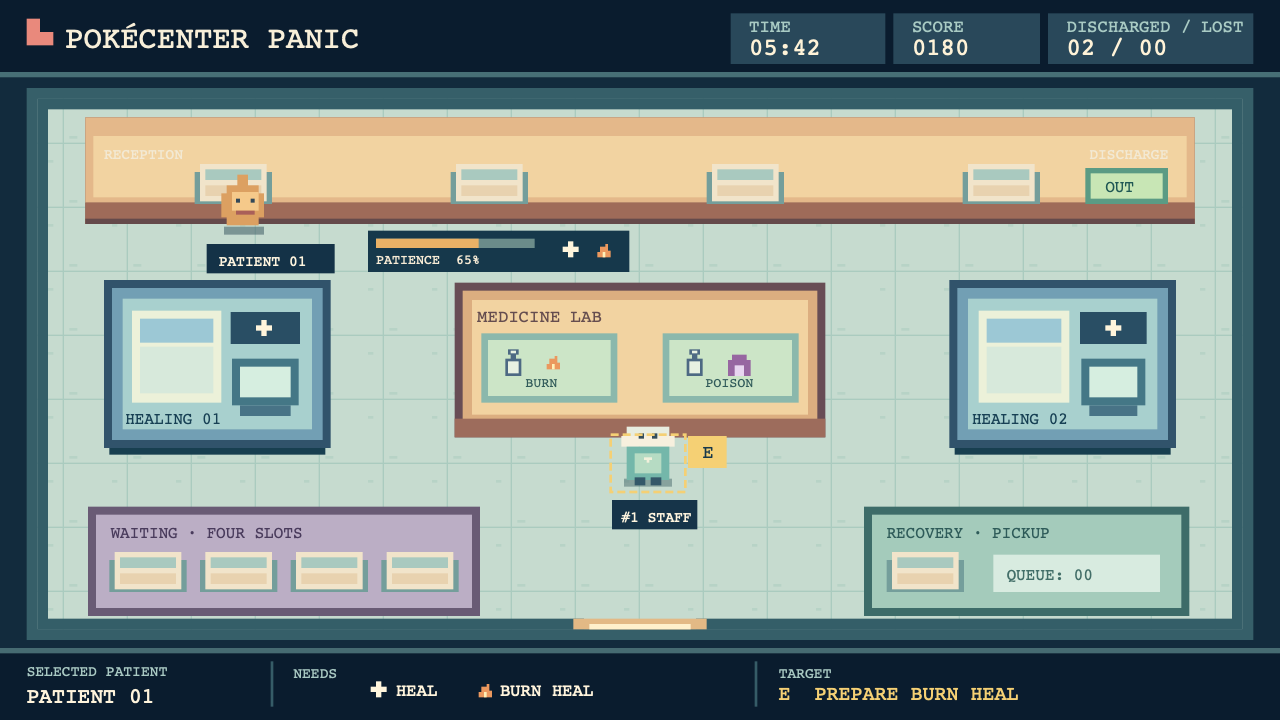
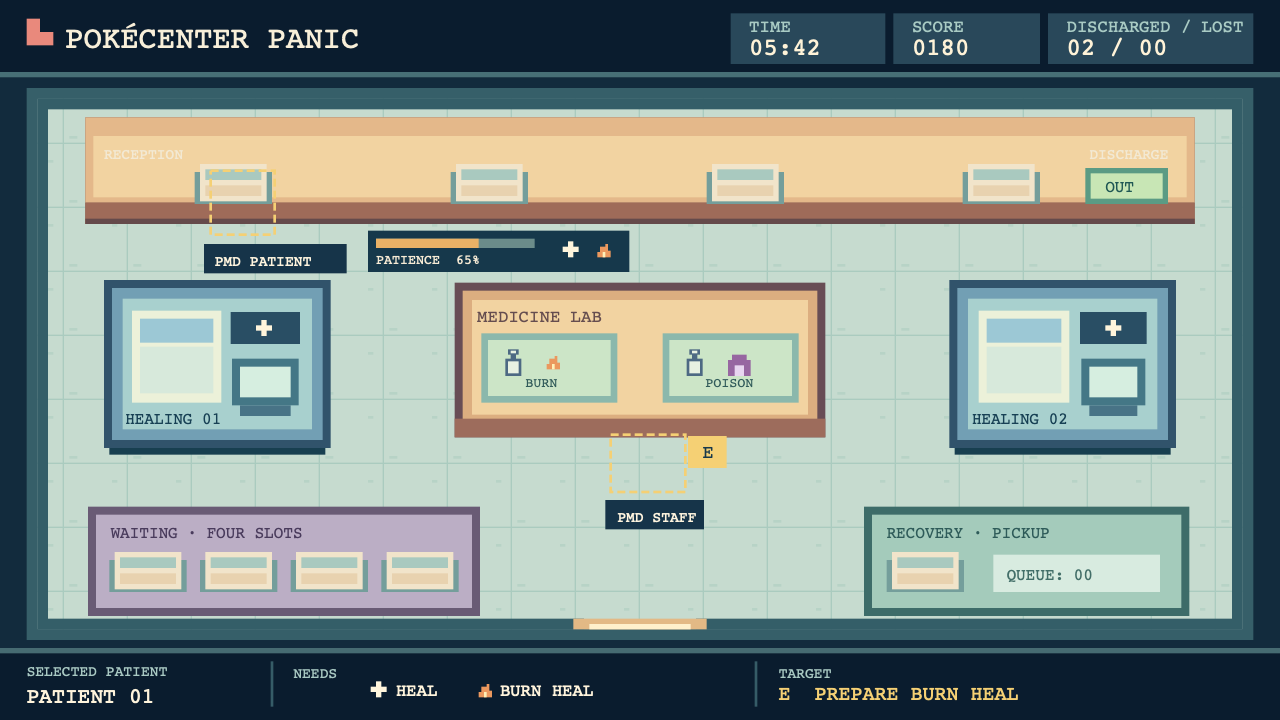
feat(art): render original center map behind PMD sprites

Changed region(s): [[0.1562, 0.2139, 0.2812, 0.3972], [0.4688, 0.5806, 0.5625, 0.7333]]

diff --git a/apps/client/src/scenes/MapScene.test.ts b/apps/client/src/scenes/MapScene.test.ts
@@ -5,7 +5,7 @@ vi.mock('phaser', () => ({ default: { Scene: class {} } }));
 import { MapScene } from './MapScene.js';
 import type { SpriteManifest } from '../sprites/pmd.js';
 
-function setup(manifest?: SpriteManifest) {
+function setup(manifest?: SpriteManifest, mapArt = true) {
   const keyboardListeners = new Map<string, (event: KeyboardEvent) => void>();
   const windowListeners = new Map<string, () => void>();
   const documentListeners = new Map<string, () => void>();
@@ -32,6 +32,7 @@ function setup(manifest?: SpriteManifest) {
   const rectangle = vi.fn(() => ({ setStrokeStyle: vi.fn().mockReturnThis(),
     setVisible: vi.fn().mockReturnThis(), setDepth: vi.fn().mockReturnThis(),
     setPosition: vi.fn().mockReturnThis() }));
+  const image = vi.fn(() => ({ setDepth: vi.fn().mockReturnThis() }));
   const sprite = vi.fn((x: number, y: number, key: string) => ({ x, y, key,
     setOrigin: vi.fn().mockReturnThis(),
     setScale: vi.fn().mockReturnThis(), play: vi.fn().mockReturnThis(),
@@ -45,12 +46,13 @@ function setup(manifest?: SpriteManifest) {
   const scene = new MapScene();
   let onLoadComplete = () => {};
   Object.assign(scene, {
-    add: { graphics: vi.fn(() => graphics), text, rectangle, container, sprite },
+    add: { graphics: vi.fn(() => graphics), image, text, rectangle, container, sprite },
     cache: { json: { get: vi.fn(() => manifest) } },
-    load: { spritesheet: vi.fn(), once: vi.fn((_event: string, callback: () => void) => {
+    load: { image: vi.fn(), json: vi.fn(), spritesheet: vi.fn(),
+      once: vi.fn((_event: string, callback: () => void) => {
       onLoadComplete = callback;
     }), start: vi.fn(() => onLoadComplete()) },
-    textures: { exists: vi.fn(() => true) },
+    textures: { exists: vi.fn((key: string) => key === 'center-map' ? mapArt : true) },
     anims: { create: vi.fn(), exists: vi.fn(() => true) },
     input: { keyboard: {
       on: vi.fn((type: string, listener: (event: KeyboardEvent) => void) => keyboardListeners.set(type, listener)),
@@ -59,8 +61,9 @@ function setup(manifest?: SpriteManifest) {
     events: { once: vi.fn() },
     sys: { isActive: () => true },
   });
+  scene.preload();
   scene.create();
-  return { scene, text, container, containers, sprite, keyboardListeners, windowListeners,
+  return { scene, image, graphics, text, container, containers, sprite, keyboardListeners, windowListeners,
     documentListeners, InputElement };
 }
 
@@ -167,8 +170,10 @@ describe('MapScene', () => {
     expect(interact).toHaveBeenCalledWith({ targetId: 'medicine:apply:reception:0',
       expectedOccupantId: 'patient-1' });
   });
-  it('renders the provisional stations and distinct avatars for the room roster', () => {
-    const { scene, text, container } = setup();
+  it('renders original center art with distinct PMD avatars', () => {
+    const { scene, image, text, container } = setup();
+    expect(image).toHaveBeenCalledWith(480, 270, 'center-map');
+    expect(text).toHaveBeenCalledWith(26, 16, 'POKÉCENTER PANIC  /  CENTER 01', expect.any(Object));
     expect(text).toHaveBeenCalledWith(92, 97, 'RECEPTION  ·  4 SLOTS', expect.any(Object));
     expect(text).toHaveBeenCalledWith(733, 223, 'HEALING 02', expect.any(Object));
 
@@ -178,6 +183,13 @@ describe('MapScene', () => {
     expect(container.mock.calls[1]?.slice(0, 2)).toEqual([504, 422]);
     expect(text).toHaveBeenCalledWith(0, -31, 'Red', expect.any(Object));
     expect(text).toHaveBeenCalledWith(0, -31, 'Blue', expect.any(Object));
+  });
+  it('uses the provisional geometry if the original map texture is unavailable', () => {
+    const { image, graphics, text } = setup(undefined, false);
+    expect(image).not.toHaveBeenCalled();
+    expect(graphics.fillRect).toHaveBeenCalledWith(0, 0, 960, 540);
+    expect(text).toHaveBeenCalledWith(26, 16, 'POKÉCENTER PANIC  /  PROTOTYPE MAP',
+      expect.any(Object));
   });
 
   it('sends local input and renders server positions for both avatars', () => {

diff --git a/apps/client/src/scenes/MapScene.ts b/apps/client/src/scenes/MapScene.ts
@@ -56,6 +56,7 @@ export class MapScene extends Phaser.Scene {
   private interactHeld = false;
   private spriteManifest: SpriteManifest | null = null;
   private spritesReady = false;
+  private mapArtLoaded = false;
   private gameplayActive = true;
 
   constructor() {
@@ -63,6 +64,7 @@ export class MapScene extends Phaser.Scene {
   }
 
   preload(): void {
+    this.load.image('center-map', '/assets/original/center-map.png');
     this.load.json('pmd-manifest', '/assets/external/pmd/manifest.json');
   }
 
@@ -555,16 +557,22 @@ export class MapScene extends Phaser.Scene {
   }
 
   private drawMap(): void {
-    const floor = this.add.graphics();
-    floor.fillStyle(0x284656).fillRect(0, 0, 960, 540);
-    floor.fillStyle(0x527e83).fillRect(48, 56, 864, 432);
-    floor.fillStyle(0x7faeab).fillRect(58, 66, 844, 412);
-    floor.lineStyle(1, 0x6b9c99, 0.55);
-    for (let x = 58; x <= 902; x += TILE_SIZE) floor.lineBetween(x, 66, x, 478);
-    for (let y = 66; y <= 478; y += TILE_SIZE) floor.lineBetween(58, y, 902, y);
-    floor.fillStyle(0x2c5e67).fillRect(382, 478, 196, 10);
+    this.mapArtLoaded = this.textures.exists('center-map');
+    if (this.mapArtLoaded) {
+      this.add.image(480, 270, 'center-map').setDepth(-1);
+    } else {
+      const floor = this.add.graphics();
+      floor.fillStyle(0x284656).fillRect(0, 0, 960, 540);
+      floor.fillStyle(0x527e83).fillRect(48, 56, 864, 432);
+      floor.fillStyle(0x7faeab).fillRect(58, 66, 844, 412);
+      floor.lineStyle(1, 0x6b9c99, 0.55);
+      for (let x = 58; x <= 902; x += TILE_SIZE) floor.lineBetween(x, 66, x, 478);
+      for (let y = 66; y <= 478; y += TILE_SIZE) floor.lineBetween(58, y, 902, y);
+      floor.fillStyle(0x2c5e67).fillRect(382, 478, 196, 10);
+    }
 
-    this.add.text(26, 16, 'POKÉCENTER PANIC  /  PROTOTYPE MAP', {
+    this.add.text(26, 16, this.mapArtLoaded ? 'POKÉCENTER PANIC  /  CENTER 01' :
+      'POKÉCENTER PANIC  /  PROTOTYPE MAP', {
       color: '#f8eac8', fontFamily: 'monospace', fontSize: '17px', fontStyle: 'bold',
     });
     this.add.text(26, 505, 'MOVE: WASD / ARROWS   •   FOUR DIRECTIONS   •   3 TILES / SECOND', {
@@ -573,8 +581,10 @@ export class MapScene extends Phaser.Scene {
 
     this.station(MAP_OBSTACLES[0]!, 0xd8a67e, 'RECEPTION  ·  4 SLOTS');
     for (let x = 177; x <= 753; x += 192) this.slot(x, 138, 1 + (x - 177) / 192);
-    this.add.rectangle(DISCHARGE_POSITION.x, DISCHARGE_POSITION.y, 58, 24, 0x9bd59d)
-      .setStrokeStyle(2, 0x426b4f);
+    if (!this.mapArtLoaded) {
+      this.add.rectangle(DISCHARGE_POSITION.x, DISCHARGE_POSITION.y, 58, 24, 0x9bd59d)
+        .setStrokeStyle(2, 0x426b4f);
+    }
     this.add.text(DISCHARGE_POSITION.x, DISCHARGE_POSITION.y, 'OUT', {
       color: '#173440', fontFamily: 'monospace', fontSize: '12px', fontStyle: 'bold',
     }).setOrigin(0.5);
@@ -606,15 +616,19 @@ export class MapScene extends Phaser.Scene {
   }
 
   private station({ x, y, width, height }: MapObstacle, color: number, label: string): void {
-    this.add.rectangle(x + width / 2, y + height / 2, width, height, color)
-      .setStrokeStyle(3, 0x244653);
+    if (!this.mapArtLoaded) {
+      this.add.rectangle(x + width / 2, y + height / 2, width, height, color)
+        .setStrokeStyle(3, 0x244653);
+    }
     this.add.text(x + 10, y + 9, label, {
       color: '#173440', fontFamily: 'monospace', fontSize: '13px', fontStyle: 'bold',
     });
   }
 
   private slot(x: number, y: number, number: number): void {
-    this.add.rectangle(x, y, 42, 22, 0xf4d9b5).setStrokeStyle(2, 0x7e5948);
+    if (!this.mapArtLoaded) {
+      this.add.rectangle(x, y, 42, 22, 0xf4d9b5).setStrokeStyle(2, 0x7e5948);
+    }
     this.add.text(x, y, String(number), {
       color: '#583e37', fontFamily: 'monospace', fontSize: '12px',
     }).setOrigin(0.5);

diff --git a/apps/client/src/scenes/centerMapArt.test.ts b/apps/client/src/scenes/centerMapArt.test.ts
@@ -1,0 +1,24 @@
+import { readFileSync } from 'node:fs';
+import { describe, expect, it } from 'vitest';
+import { MAP_OBSTACLES } from '@pokecenter/shared';
+import { pngDimensions } from '../sprites/pmd.js';
+
+const source = readFileSync(new URL('../../../../art/source/center-map.svg', import.meta.url), 'utf8');
+const texture = readFileSync(new URL('../../public/assets/original/center-map.png', import.meta.url));
+
+describe('original center environment art', () => {
+  it('exports one texture at the fixed map resolution', () => {
+    expect(pngDimensions(texture)).toEqual({ width: 960, height: 540 });
+  });
+
+  it('keeps station art bounds aligned with the server collision geometry', () => {
+    const matches = [...source.matchAll(/<rect data-obstacle="(\d+)" x="(\d+)" y="(\d+)" width="(\d+)" height="(\d+)"/g)];
+    expect(matches).toHaveLength(MAP_OBSTACLES.length);
+    for (const [index, obstacle] of MAP_OBSTACLES.entries()) {
+      const match = matches[index]!;
+      expect(Number(match[1])).toBe(index);
+      expect([Number(match[2]), Number(match[3]), Number(match[4]), Number(match[5])])
+        .toEqual([obstacle.x, obstacle.y, obstacle.width, obstacle.height]);
+    }
+  });
+});

diff --git a/docs/visual-assets.md b/docs/visual-assets.md
@@ -1,12 +1,14 @@
 # MVP visual assets
 
-This is the working art guide for the first Pokémon Center. The [editable visual pilot](visual-pilot.svg) is an original, self-contained composition used to evaluate scale, palette, station recognition, and HUD density at the minimum 1280 × 720 viewport. Its two character silhouettes are placeholders, not Pokémon art or production sprites.
+This is the working art guide for the first Pokémon Center. The [editable visual pilot](visual-pilot.svg) is an original, self-contained composition used to evaluate scale, palette, station recognition, and HUD density at the minimum 1280 × 720 viewport. Its dashed boxes mark positions for PMD sprites; the pilot contains no character artwork.
 
 ![Visual pilot at 1280 × 720](visual-pilot.png)
 
 ## Baseline and scale
 
-The current game uses a fixed 960 × 540 world, a 48-pixel logical tile, `Phaser.Scale.FIT`, and `pixelArt: true`. Keep those world dimensions for the first art integration so the shared movement geometry and interaction points continue to agree. The pilot has been rendered at 1280 × 720; final browser validation must still include actual PMD sprites, Chrome and Firefox, and a complete round.
+The current game uses a fixed 960 × 540 world, a 48-pixel logical tile, `Phaser.Scale.FIT`, and `pixelArt: true`. Keep those world dimensions for the first art integration so the shared movement geometry and interaction points continue to agree. The pilot has been rendered at 1280 × 720; final browser validation must still include all PMD sprites, Chrome and Firefox, and a complete round.
+
+Character sprites come from the existing PMD importer and its ignored local cache. We create the scenario art ourselves. The first editable environment source is [`art/source/center-map.svg`](../art/source/center-map.svg); its 960 × 540 runtime export is [`apps/client/public/assets/original/center-map.png`](../apps/client/public/assets/original/center-map.png). `MapScene` draws that original map, then overlays the imported PMD characters and live game state. PMD source rights and credits still require review before a public build.
 
 PMD frame sizes in the locally generated manifest are not uniform:
 
@@ -53,7 +55,7 @@ The pilot palette uses dark navy `#0a1c2e` for HUD panels, deep teal `#345e68` f
 ## Visual checks
 
 - **Pilot completed:** the SVG renders at 1280 × 720 with readable station labels, patient need icons, target prompt, and HUD without hiding the room.
-- **Native-scale spot check completed:** a local round at 1280 × 720 showed Chansey staff and an injured Pikachu patient with readable names and crisp sprites. Their texture scale is 1×. The runtime screenshot stays local because it contains third-party character art.
+- **Native-scale integration check completed:** a local round at 1280 × 720 showed the original center map with PMD Chansey staff and a PMD Pikachu patient. Their names remained readable and their texture scale is 1×. The runtime screenshot stays local because it contains third-party character art.
 - **Next integration check:** compare all native-size PMD frames in the actual Phaser scene, including Eevee's 40-pixel Walk frame. Check carriage, overlaps, and the fixed-camera viewport for every selectable character.
 - **Release check:** complete the muted Chrome/Firefox walkthrough at 1280 × 720 required by `docs/specification.md` AC-21, and verify credits and distribution rights before a public build.
 

diff --git a/README.md b/README.md
@@ -2,7 +2,7 @@
 
 PokéCenter Panic is a noncommercial cooperative browser game in development. The [functional and technical specification](docs/specification.md) describes the planned MVP.
 
-The [MVP visual asset guide](docs/visual-assets.md) includes the original scene pilot, asset inventory, and scale decisions for the first Pokémon Center.
+The [MVP visual asset guide](docs/visual-assets.md) covers the original center environment, PMD character sprites, asset inventory, and scale decisions.
 
 ## Development
 
@@ -21,7 +21,7 @@ The client opens at `http://127.0.0.1:5173`; Colyseus listens on port `2567` by 
 
 Enter a player name and select **Create room**. Share the displayed six-character code; up to three others can join from separate browser sessions. Codes are case-insensitive. Choose a Pokémon, mark yourself ready, and have the host select **Start game** once everyone is ready. A three-second countdown leads into the patient-care prototype. Rooms default to four seats; set `ROOM_CAPACITY=1`, `2`, or `3` before starting the server to test a smaller room. Invalid codes and full rooms show distinct errors. An interrupted connection reserves its seat for 30 seconds; the same tab retries automatically, and a reload can restore the seat from that tab's session. **Leave room** releases the seat immediately. An empty room closes after 60 seconds without a connected player. Rooms are held in memory and disappear when the server restarts.
 
-The provisional map shows every connected player. Move your own character with WASD or the arrow keys; the most recently pressed direction wins, with no diagonal movement. The server validates movement against map boundaries and solid stations, then synchronizes positions to all players. Movement stops when the browser loses focus or input becomes stale. Players can pass through one another.
+The original center map shows every connected player. Move your own character with WASD or the arrow keys; the most recently pressed direction wins, with no diagonal movement. The server validates movement against map boundaries and solid stations, then synchronizes positions to all players. Movement stops when the browser loses focus or input becomes stale. Players can pass through one another.
 
 To render PMD sprites locally, run `npm run assets:pmd` before starting the client. This fills a Git-ignored cache for the six patient species and four player characters. The game uses provisional markers if the cache is absent. See [external sprite sources and credits](docs/asset-sources.md) for terms and attribution; do not commit downloaded assets.
 
